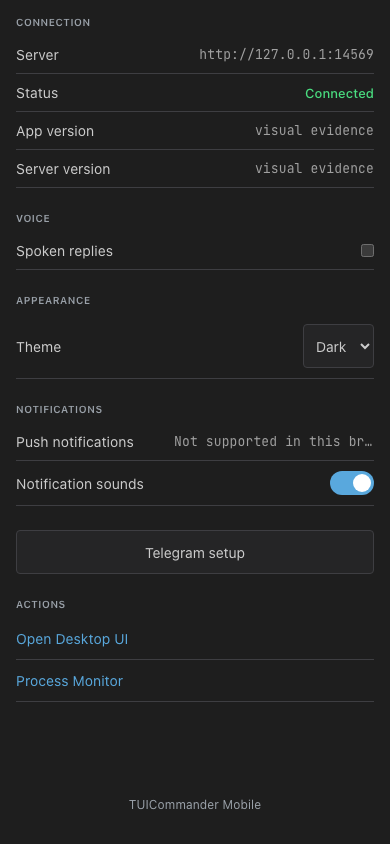
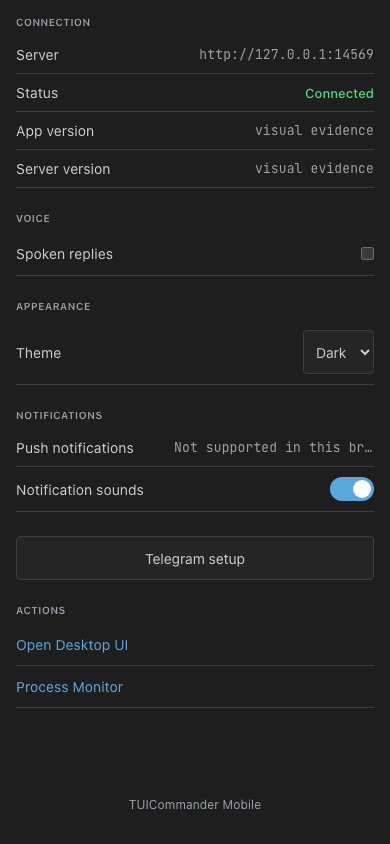
fix(mobile): finish spoken reply touch validation (#1659-f3cc)
Give the Settings control a 44px target and refresh its screenshot evidence.
Complete the navigation test logger mock so rejected voice status probes do
not produce unhandled errors in the full frontend suite.

Validation: rb Vitest passed 650 files and 8698 tests, exit 0; five phone
screenshots captured with measured targets of at least 44px.

diff --git a/src/mobile/__tests__/SessionFilesNavigation.test.tsx b/src/mobile/__tests__/SessionFilesNavigation.test.tsx
@@ -15,7 +15,7 @@ const { rpc, mockSessions, mockRepos, outputMounts } = vi.hoisted(() => ({
 
 vi.mock("../../transport", () => ({ rpc }));
 vi.mock("../../invoke", () => ({ invoke: vi.fn() }));
-vi.mock("../../stores/appLogger", () => ({ appLogger: { warn: vi.fn() } }));
+vi.mock("../../stores/appLogger", () => ({ appLogger: { warn: vi.fn(), info: vi.fn() } }));
 vi.mock("../../stores/ideas", () => ({ ideasStore: { hydrate: vi.fn() } }));
 vi.mock("../useSessions", () => ({
 	useSessions: () => ({

diff --git a/src/mobile/screens/SettingsScreen.tsx b/src/mobile/screens/SettingsScreen.tsx
@@ -230,7 +230,7 @@ export function SettingsScreen(props: SettingsScreenProps) {
 			<Show when={voice.available()}>
 				<section class={styles.section}>
 					<h3 class={styles.sectionTitle}>VOICE</h3>
-					<label class={styles.row}>
+					<label class={`${styles.row} ${styles.spokenReplies}`}>
 						<span class={styles.label}>Spoken replies</span>
 						<input
 							type="checkbox"

diff --git a/src/mobile/screens/SettingsScreen.module.css b/src/mobile/screens/SettingsScreen.module.css
@@ -32,6 +32,10 @@
   border-bottom: 1px solid var(--border);
 }
 
+.spokenReplies {
+  min-height: 44px;
+}
+
 .label {
   font-size: 14px;
   color: var(--fg-primary);

diff --git a/docs/evidence/voice-mute-1659/README.md b/docs/evidence/voice-mute-1659/README.md
@@ -14,12 +14,14 @@ against this worktree's Vite server at a 390 × 844 phone viewport.
 The screenshots render the actual SessionDetailScreen, SettingsScreen, global
 styles and dictation store. Trusted CDP touch events toggle the checkbox.
 The conversation label spans 390 × 44px at y=56, entirely inside the viewport.
-The Settings label spans 358 × 38px at x=16, y=232; it is visible and unclipped.
-Its 38px height is below the 44px touch target guideline and is recorded for the
-coordinator; this evidence-only lane does not modify production styles.
+The Settings label spans 358 × 44px at x=16, y=232; it is visible and unclipped.
+Both controls meet the 44px touch target guideline. The Settings minimum height
+is scoped to Spoken replies and preserves other rows.
 
 visual-measurements.json retains each checkbox's computed size, checked and
 disabled state, label bounds, viewport, store state and owned API request paths.
+Source blob hashes identify the captured Settings files when the base commit
+contains additional uncommitted screenshot updates.
 The off/on conversation captures demonstrate that changing the preference
 leaves hands-free armed. Leaving the conversation for Settings disarms it
 through the existing screen cleanup.

diff --git a/to-test.md b/to-test.md
@@ -4882,6 +4882,6 @@ Needs an iPhone (iOS 16.4+, 18.4+ preferred), the desktop TUICommander running a
 
 
 ### Spoken replies toggle (#1659-f3cc)
-- [ ] Capture the mobile conversation and Settings toggles on the worktree Vite. The stealth wrapper snapshot showed Spoken replies checked; wrapper screenshot and three bounded headless attempts timed out without an image.
+- [x] Capture the mobile conversation and Settings toggles on the worktree Vite. _(verified: docs/evidence/voice-mute-1659/README.md — headless Chrome CDP screenshots and computed on/off state; both labels meet the 44px touch target.)_
 - [ ] After Boss restarts make dev (Rust does not hot reload), arm hands-free on mobile, turn Spoken replies off, dictate, and confirm text answers with no reply audio. Turn it on again and confirm audio returns when the speech service is available.
 - [ ] After an Edge access rejection, confirm the UI reports the cool-down and dictation continues; wait five minutes before retrying speech.
